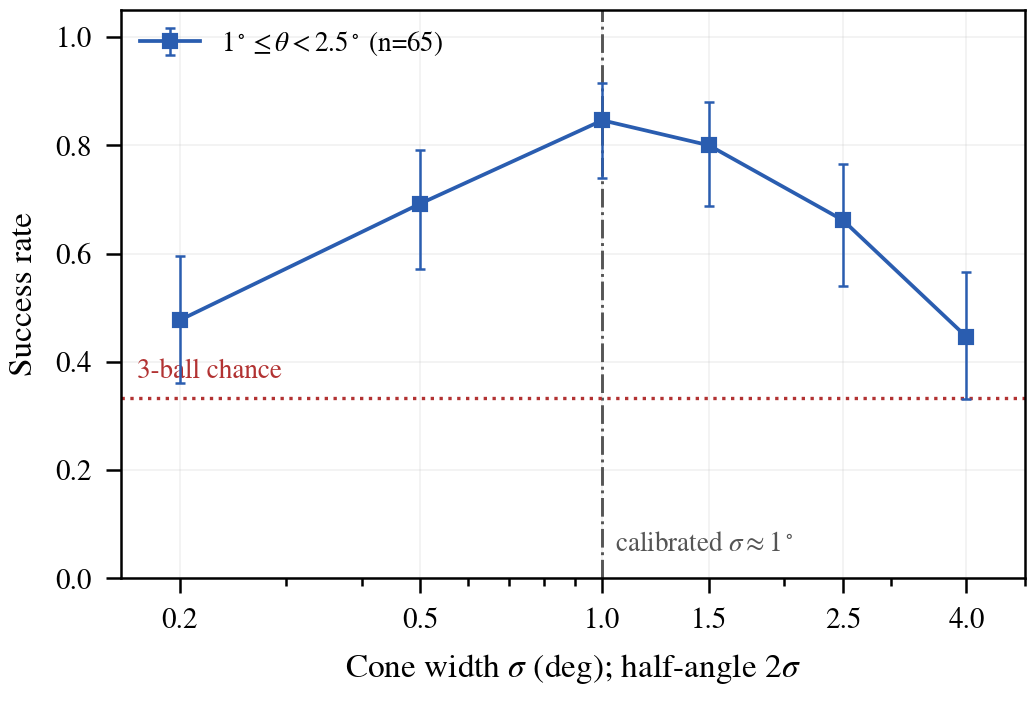
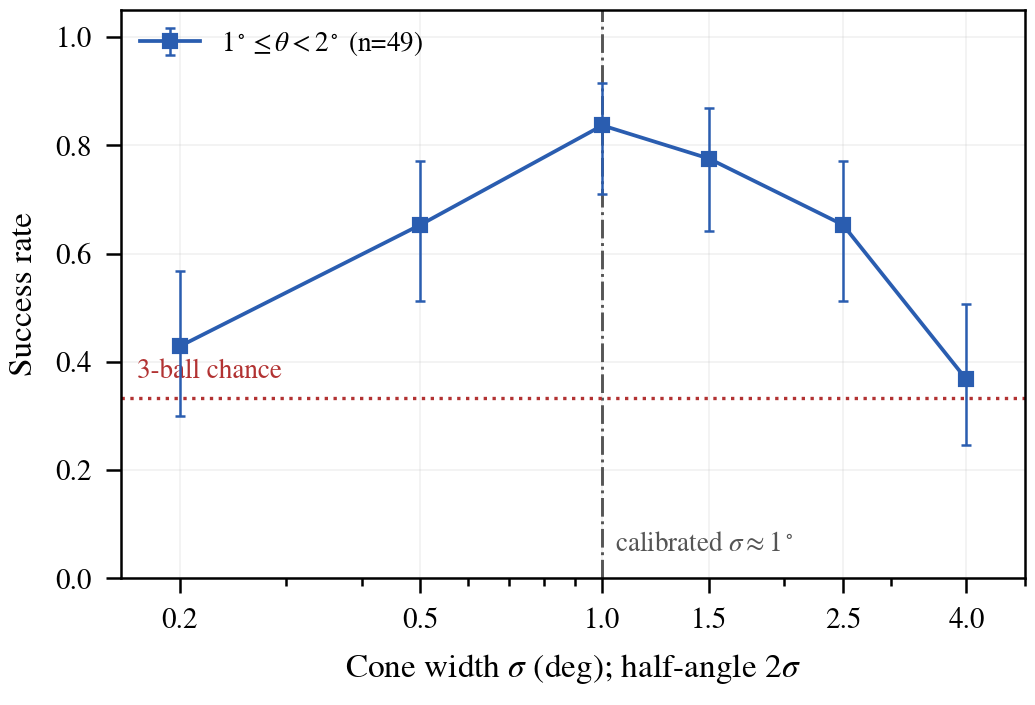
9-03 两图分箱改为标定 σ 的整数倍(1σ/2σ/3σ/4σ):图 A ours 57/84/90/100/100% 单调;图 B 档改 1σ–2σ(n=49),峰仍在 1°
箱边界对着方法参数而非原来的 0.75/1.5/2.5 临时边界;数据未变,原 1.81° 站位一组 4 个漏项从 [1.5,2.5) 落到 [1,2)。

diff --git a/Eye_Tracker/tools/plot_fig_e4.py b/Eye_Tracker/tools/plot_fig_e4.py
@@ -4,10 +4,10 @@
     python Eye_Tracker/tools/plot_fig_e4.py
 
 fig_theta.pdf/png:成功率对 θ(没答与答错同算失败;主集 204 项,剔压力段与边走,全部 trial 含被前排球遮挡的)。
-    分箱 [0.5,1) [1,1.5) [1.5,2.5) [2.5,4) [4,∞)。
+    分箱边界取标定 σ(1°)的整数倍:[0.5,1) [1,2) [2,3) [3,4) [4,∞)。
     曲线:ours(v2, σ=1°)、single ray(σ=0.2°,同管线锥收成射线)、nearest-centroid 基线、
     sphere vote(视角无关球投票,有 e4_v2sphere_score.csv 时才画)。σ 竖线、乱猜线直接标注。
-fig_sigma.pdf/png:成功率对锥宽 σ,只画 1°≤θ<2.5° 这一档(膝盖区,锥宽最敏感);σ=标定精度竖线。
+fig_sigma.pdf/png:成功率对锥宽 σ,只画 1°≤θ<2°(1σ–2σ,膝盖区,锥宽最敏感)这一档;σ=标定精度竖线。
     分箱直接由 e4_table.rows_for 现算,不依赖 json。
 """
 from __future__ import annotations
@@ -28,8 +28,8 @@ SIGMA_CAL = 1.0        # 标定精度 ≈ 1°;σ 扫描最优也在此
 OCC_LIMIT_DEG = 0.96   # 物理遮挡极限:球径 6.7cm @ 4m
 CHANCE = 1 / 3
 GREEN, RED, GRAY, BLUE, ORANGE, PURPLE = "#4a7000", "#b23232", "#555555", "#2a5db0", "#c86a1e", "#6b4aa0"
-BINS = [0.5, 1.0, 1.5, 2.5, 4.0, 20.0]
-TIERS = [("<1°", 0.0, 1.0), ("1–2.5°", 1.0, 2.5), ("2.5–4°", 2.5, 4.0)]
+BINS = [0.5, 1.0, 2.0, 3.0, 4.0, 20.0]     # 箱边界 = 标定 σ(1°)的整数倍:1σ 2σ 3σ 4σ
+TIERS = [("<1σ", 0.0, 1.0), ("1–2σ", 1.0, 2.0), ("2–3σ", 2.0, 3.0), ("3–4σ", 3.0, 4.0)]
 SIGMAS = [("v2s02", 0.2), ("v2s05", 0.5), ("v2s10", 1.0), ("v2", 1.5), ("v2s25", 2.5), ("v2s40", 4.0)]
 Z = 1.959964
 
@@ -129,7 +129,7 @@ def sigma_curve():
     for cfg, sd in SIGMAS:
         th, hit = trials(cfg)
         tiers = {}
-        for name, lo, hi in TIERS + [("≥4°", 4.0, 99.0)]:
+        for name, lo, hi in TIERS + [("≥4σ", 4.0, 99.0)]:
             m = (th >= lo) & (th < hi)
             tiers[name] = (int(hit[m].sum()), int(m.sum()))
         t = k = 0
@@ -151,7 +151,7 @@ def fig_sigma(plt, curve):
     ax.text(SIGMA_CAL * 1.05, 0.04, r"calibrated $\sigma\approx1^\circ$", fontsize=6.5, color=GRAY, ha="left", va="bottom")
     ax.axhline(CHANCE, ls=":", lw=0.8, color=RED, zorder=1)
     ax.text(0.17, CHANCE + 0.025, "3-ball chance", fontsize=6.5, color=RED, ha="left", va="bottom")
-    for tier, lab, col, fmt in [("1–2.5°", r"$1^\circ\leq\theta<2.5^\circ$ (n=%d)" % curve[0]["tiers"]["1–2.5°"][1], BLUE, "s-")]:
+    for tier, lab, col, fmt in [("1–2σ", r"$1^\circ\leq\theta<2^\circ$ (n=%d)" % curve[0]["tiers"]["1–2σ"][1], BLUE, "s-")]:
         hn = [c["tiers"][tier] for c in curve]
         a = [h / n for h, n in hn]
         ci = [wilson(h, n) for h, n in hn]
